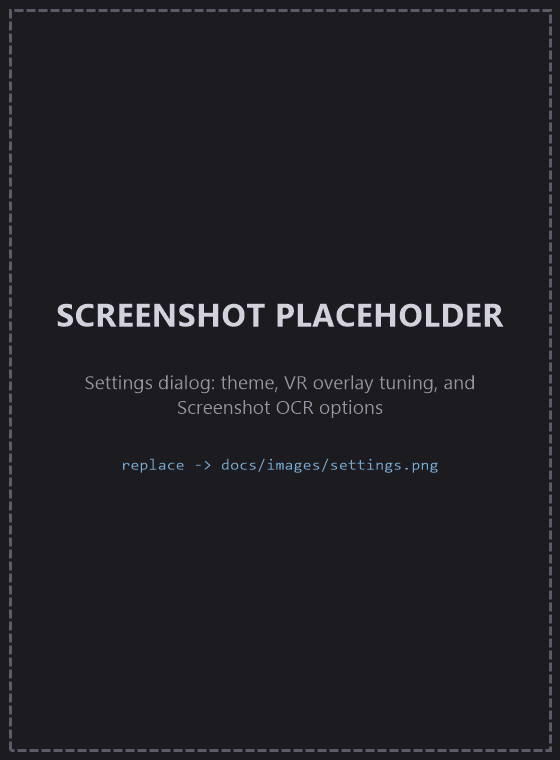
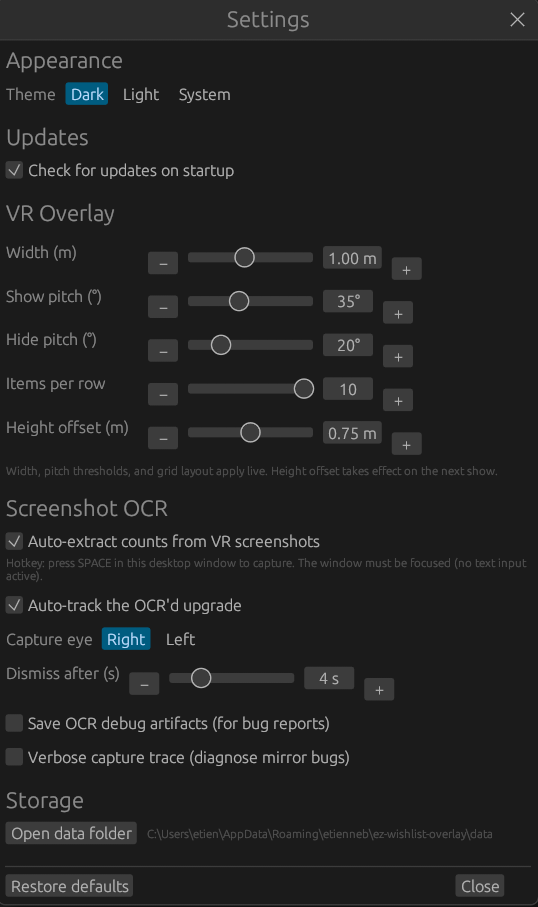
docs(readme): add real screenshots (hideout, items DB, settings, VR overlay, OCR)
Replace the placeholder images with real captures:

- desktop-hideout / desktop-items-db / settings: native-resolution PNG
  (crisp UI text).
- vr-overlay / ocr-feedback: downscaled to ~1600px, high-quality JPG
  (photographic VR/in-game content compresses far better as JPG).

Collapse the OCR section to a single combined shot - the feedback card
already shows the Facility Upgrade panel behind it - and drop the
separate ocr-panel image. Manifest updated to match.

diff --git a/docs/images/README.md b/docs/images/README.md
@@ -1,19 +1,16 @@
 # README screenshots
 
-The files here are referenced by the main [README](../../README.md). They currently ship as **labeled gray placeholders** — replace each one with a real screenshot using the **same filename** and it'll appear automatically (no README edits needed).
+These are the live images shown in the main [README](../../README.md). To refresh one (new wipe, UI change), replace the file in place with the **same name** — no README edits needed.
 
-Suggested capture targets:
+| File | Shows | Format |
+| ---- | ----- | ------ |
+| `desktop-hideout.png` | Desktop **Hideout** tab + the aggregated *Active items* wishlist. Doubles as the hero image. | PNG (crisp UI text) |
+| `desktop-items-db.png` | Desktop **Items DB** tab, sorted by Total Value (the "stash worth" view). | PNG |
+| `settings.png` | The **Settings** dialog. | PNG |
+| `vr-overlay.jpg` | In-headset: the wishlist overlay grid floating in the world. | JPG (photographic) |
+| `ocr-feedback.jpg` | In-headset: the OCR feedback card ("OCR Bitcoin Mine · Lv 2") over the Facility Upgrade panel — captures the whole SPACE-to-read flow in one shot. | JPG |
 
-| File | What it should show | Suggested size |
-| ---- | ------------------- | -------------- |
-| `desktop-hideout.png` | Desktop app, **Hideout** tab — modules with level cells and the presets row on the left, the aggregated wishlist preview on the right. Used twice (hero + Hideout section), so make this the best overview shot. | ~1280×800 |
-| `desktop-items-db.png` | Desktop app, **Items DB** tab — the catalog sorted by **Total Value** so the "stash worth" angle reads clearly. | ~1280×800 |
-| `vr-overlay.png` | In headset — the wishlist overlay as it appears when you look up. A SteamVR mirror grab or photo of the view both work. | ~1280×720 |
-| `ocr-panel.png` | In game — the **Facility Upgrade** panel (the screen the SPACE-key OCR reads). | ~1280×720 |
-| `ocr-feedback.png` | In headset — the OCR feedback card that pops up after a capture, showing the counts it filled in. | ~1280×720 |
-| `settings.png` | The **Settings** dialog (Appearance / Updates / VR Overlay / Screenshot OCR). | ~560×760 |
-
-Tips:
-- PNG keeps UI text crisp; aim for the sizes above so the layout doesn't shift when placeholders are swapped out.
-- `ocr-panel.png` and `ocr-feedback.png` sit side by side in the README, so matching their aspect ratios looks tidy.
-- A real SteamVR mirror capture (rather than a phone photo of the lens) gives the cleanest VR shots.
+Notes:
+- **Desktop UI shots → PNG** (sharp text), **VR/in-game shots → JPG** (small files for photographic content). Keep that split when refreshing.
+- The VR/in-game JPGs are downscaled to ~1600 px wide; the desktop PNGs are native resolution.
+- There's deliberately no separate `ocr-panel` image — the `ocr-feedback` shot already shows the panel behind the card.

diff --git a/README.md b/README.md
@@ -70,7 +70,7 @@ The **Items DB** tab is a sortable, filterable catalog of the barter items hideo
 Put the headset on and **look up** — the wishlist fades in above you as a SteamVR overlay. It anchors in world space at the spot you raised your gaze to, so you can look back down to read and interact with it without it chasing your eyes. Items grey out as you complete them, and the panel re-renders the instant anything changes on the desktop side.
 
 <p align="center">
-  <img src="docs/images/vr-overlay.png" alt="VR overlay" width="820">
+  <img src="docs/images/vr-overlay.jpg" alt="The VR wishlist overlay seen in-headset" width="820">
 </p>
 
 ### 👆 Tick items off without taking the headset off
@@ -82,8 +82,7 @@ Point a controller at an item in the overlay and pull the trigger to bump its co
 This is the time-saver. Open an upgrade's **Facility Upgrade** panel in-game, and with the desktop window focused press **SPACE**. The app captures what SteamVR is showing, recognizes which upgrade panel it is, reads the owned-count for every required item, and writes those numbers straight into your wishlist — no manual counting. A card pops up in the headset showing exactly what changed. By default it also auto-tracks that upgrade and marks the lower levels done.
 
 <p align="center">
-  <img src="docs/images/ocr-panel.png" alt="In-game Facility Upgrade panel that OCR reads" width="410">
-  <img src="docs/images/ocr-feedback.png" alt="In-headset OCR feedback card" width="410">
+  <img src="docs/images/ocr-feedback.jpg" alt="In-headset OCR feedback card on the Facility Upgrade panel" width="760">
 </p>
 
 > It reads SteamVR's *rendered image* — the same pixels already on your headset display — through OpenVR's public mirror-texture API. It never looks at the game process. See [below](#-how-it-stays-anti-cheat-safe).
